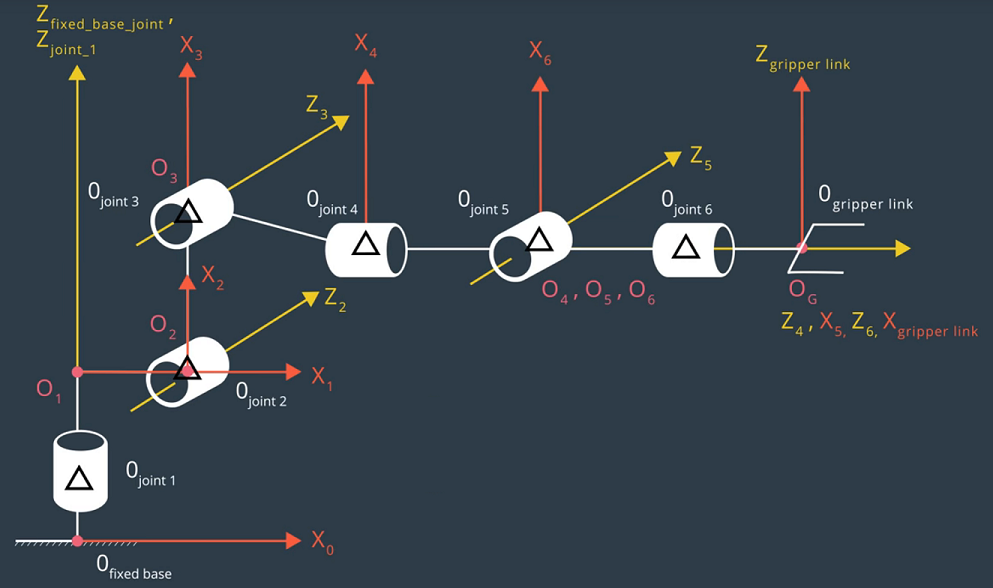
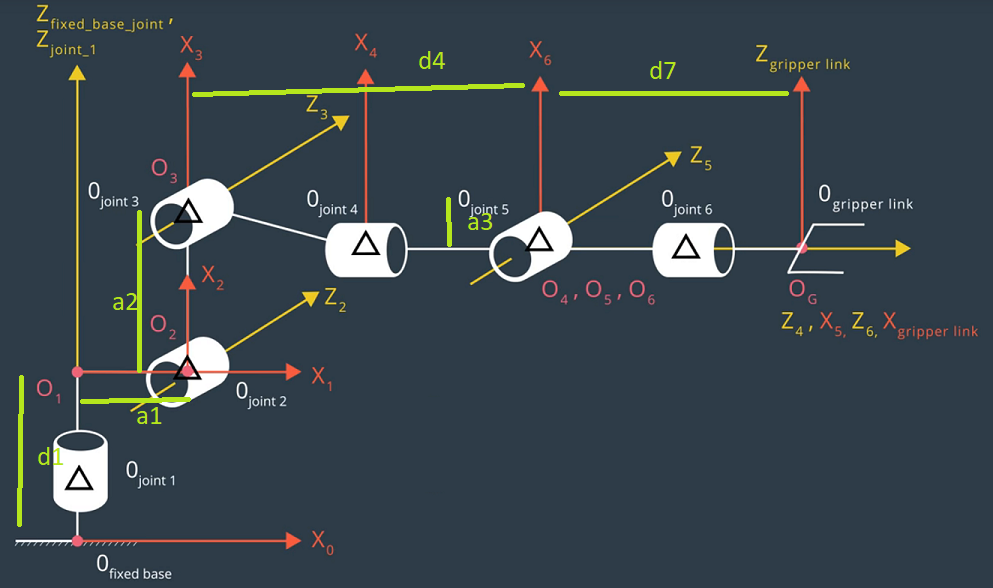
Update writeup: added description to show how to find out the DH table

diff --git a/README.md b/README.md
@@ -18,9 +18,19 @@
 
 #### DH Parameters
 
-Run the forward_kinematics demo and evaluate the kr210.urdf.xacro file to perform kinematic analysis of Kuka KR210 robot and derive its DH parameters as following:
+Based on following description to find out the corresponding DH parameter for Kuka KR210 robot arm:
+* a(i) (link length) = the distance from Z(i) to Z(i+1) measured along X(i);
+* alpha(i) (link twist) = the angle from Z(i) to Z(i+1) measured about X(i);
+* d(i) (link offset) = the distance from X(i-1) to X(i) measured along Z(i); and
+* theta(i) (joint angle) = the angle from X(i-1) to X(i) measured about Z(i).
 
 ![png](./writeup_images/fk.png)
+
+and then run the forward_kinematics demo to figure out all corresponding parameters for the DH parameters
+
+![png](./writeup_images/kuka_arm_deom.png)
+
+Here is the result of the DH parameters table:
 
 i | alpha(i-1) | a(i-1) | d(i) | theta(i)
 --- | --- | --- | --- | ---
@@ -31,12 +41,6 @@ i | alpha(i-1) | a(i-1) | d(i) | theta(i)
 5 | pi/2 | 0 | 0 | q5
 6 | -pi/2 | 0 | 0 | q6
 EE | 0 | 0 | 0.030 | 0
-
-where:
-* a(i) (link length) = the distance from Z(i) to Z(i+1) measured along X(i);
-* alpha(i) (link twist) = the angle from Z(i) to Z(i+1) measured about X(i);
-* d(i) (link offset) = the distance from X(i-1) to X(i) measured along Z(i); and
-* theta(i) (joint angle) = the angle from X(i-1) to X(i) measured about Z(i).
 
 
 #### Forward Kinematic
